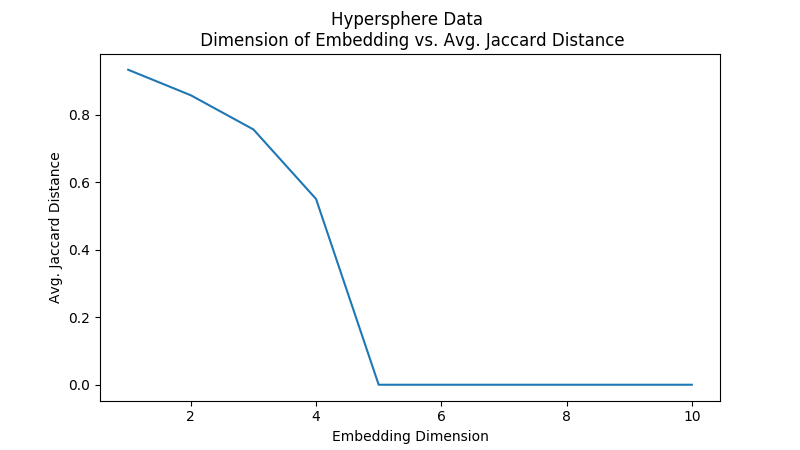
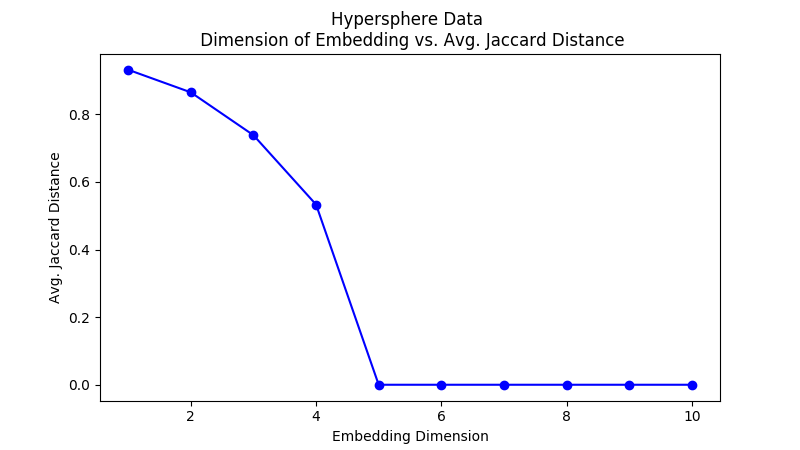
changed visualizations to have circles at data points

diff --git a/test 18-52-11-782.py b/test 18-52-11-782.py
@@ -1,0 +1,75 @@
+
+# First, import the hypersphere function:
+from calc_ajd import hypersphere
+
+# When you call the function, specify
+  # the dimensionality of the hypersphere,
+  # the number of samples,
+  # and the ambient dimensionality
+
+data = hypersphere(n_dimensions=5,
+                  n_samples=1000,
+                  k_space=20)
+
+# For this, we'll need the functions ndr and ajd:
+from calc_ajd import ndr, ajd
+# First, we perform dimensionality reduction:
+embedding = ndr(data,method='PCA',dim=2)
+# Next, we calculate the Average Jaccard Distance:
+distortion = ajd(data, embedding)
+# Finally, we print our result
+print("AJD of embedding:  ", distortion)
+
+# Declare some lists to store results:
+dims = []
+results = []
+# For each dimension from 1 to 10:
+i = 1
+while i < 11:
+  # Perform dimensionality reduction:
+  embedding = ndr(data,method='PCA',dim=i)
+  # Calculate GED:
+  avg_jaccard_dist = ajd(data,embedding)
+  # Add embedding dimensions and AJD result to lists:
+  dims.append(i)
+  results.append(avg_jaccard_dist)
+  i += 1
+# Print results:
+print(dims)
+print(results)
+# Remember to import the package!
+import matplotlib.pyplot as plt
+
+plt.figure(figsize=(8, 4.5))
+plt.plot(dims,results,'bo-')
+plt.title('Hypersphere Data \n Dimension of Embedding vs. Avg. Jaccard Distance')
+plt.xlabel('Embedding Dimension')
+plt.ylabel('Avg. Jaccard Distance')
+plt.savefig('sample_result_1.png')
+
+from calc_ajd import ged, mst
+# Declare some lists to store results:
+dims = []
+results = []
+# We only need to find the minimum spanning tree in the original data once:
+highD_tree = mst(data)
+# For each dimension from 1 to 10:
+i = 1
+while i < 11:
+  # Perform dimesnionality reduction:
+  embedding = ndr(data,method='PCA',dim=i)
+  # Now we find the minimum spanning tree in the new representation of the data:
+  lowD_tree = mst(embedding)
+  # We calculate the Graph Edit Distance between the trees:
+  graph_edit_distance = ged(highD_tree,lowD_tree)
+  # And add our data to the relevant lists:
+  dims.append(i)
+  results.append(graph_edit_distance)
+  i += 1
+plt.figure(figsize=(8, 4.5))
+plt.plot(dims,results,'ro-')
+# plt.plot(dims,results,'r--')
+plt.title('Practice Data \n Dimension of Embedding vs. Graph Edit Distance btwn. Minimum Spanning Trees')
+plt.xlabel('Embedding Dimension')
+plt.ylabel('Graph Edit Distance')
+plt.savefig('sample_result_2.png')

diff --git a/README.md b/README.md
@@ -86,8 +86,8 @@ If you'd like a plot of the results, you can use matplotlib:
 # Remember to import the package!
 import matplotlib.pyplot as plt
 
-plt.figure(figsize=(16, 9))
-plt.plot(dims,results)
+plt.figure(figsize=(8, 4.5))
+plt.plot(dims,results,'bo-')
 plt.title('Practice Data \n Dimension of Embedding vs. Avg. Jaccard Distance')
 plt.xlabel('Embedding Dimension')
 plt.ylabel('Avg. Jaccard Distance')
@@ -134,7 +134,7 @@ To plot these results, we'll use matplotlib again:
 
 ```python
 plt.figure(figsize=(8, 4.5))
-plt.plot(dims,results)
+plt.plot(dims,results,'ro-')
 plt.title('Practice Data \n Dimension of Embedding vs. Graph Edit Distance btwn. Minimum Spanning Trees')
 plt.xlabel('Embedding Dimension')
 plt.ylabel('Graph Edit Distance')
